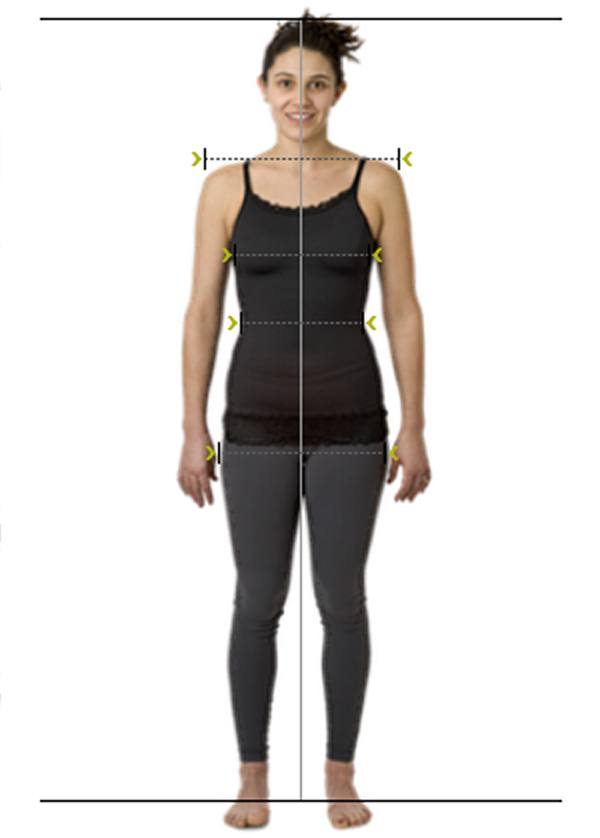
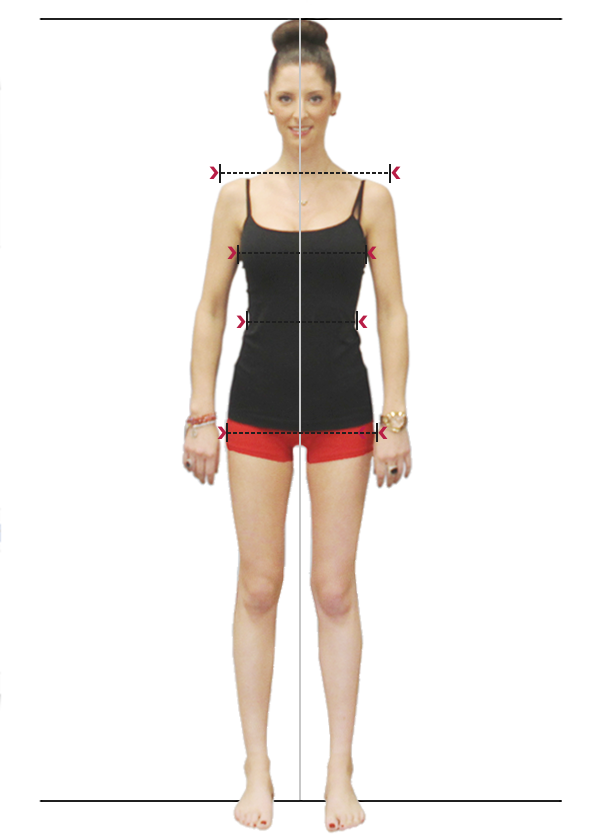
Did changes in measurement/step 4 as pdf file

Changed region(s): [[0.27, 0.0, 0.72, 0.9928]]

diff --git a/web/bundles/lovethatfit/site/css/main.css b/web/bundles/lovethatfit/site/css/main.css
@@ -3153,12 +3153,12 @@ padding-bottom: 0px;
     text-align: center;
     font-weight: normal;
     text-transform: uppercase;
-    border-bottom: 3px solid #c4c833;
+    border-bottom: 3px solid #ccc;
     margin-bottom: 10px;    
 }
 
 .home_box .slid{    
-    border-bottom: 3px solid #c4c833; 
+    border-bottom: 3px solid #406db5; 
     overflow: hidden;
     }
 
@@ -3272,7 +3272,8 @@ div.play_area_hldr div.action_buts_bar {
      border:1px solid #ddd; 
      box-shadow:0px 3px 15px #000;
      z-index: 9000;
- }
+ } 
+ 
  
   #pic_step_2{     
      display:none; 
@@ -3283,7 +3284,19 @@ div.play_area_hldr div.action_buts_bar {
      padding: 36px 10px 10px;
      border:1px solid #ddd; 
      box-shadow:0px 3px 15px #000;
-     z-index: 6000;
+     z-index: 9000;
+ }
+ 
+ #pic_step_3{     
+     display:none; 
+     position: absolute; 
+     left: 270px; 
+     top: 60px; 
+     background: #fff; 
+     padding: 36px 10px 10px; 
+     border:1px solid #ddd; 
+     box-shadow:0px 3px 15px #000;
+     z-index: 9000;
  }
  
  .popup_cross{     
@@ -3296,7 +3309,8 @@ div.play_area_hldr div.action_buts_bar {
  }
  
   .hiw_step_1,
- hiw_step_2 {
+ hiw_step_2,
+hiw_step_3 {
      display:none;
  }
  
@@ -3921,7 +3935,7 @@ width: 160px;
 
 .step_1_exam_4 {
     position: relative;
-    top:-420px;
+    top:-405px;
     left:-150px;
 }
 
@@ -4221,4 +4235,35 @@ ul.fitting_alerts_ul{
  
  .prod_share{
      margin-left: 5px;
+ }
+ 
+ 
+ #profile_measurement_link_reg {
+    font-size: 0.75em!important;
+    color: #333;    
+    display: block;
+    padding: 5px;
+    text-align: center;
+}
+
+#profile_measurement_link_reg a {
+    color:#444444!important;
+    font-weight: bold;
+}
+
+#exp_sml{
+    float:right;
+    margin-right: 110px;
+}
+
+.handle_inner{
+margin-bottom: 4px;
+margin-top: 4px;
+margin-left: 4px;
+}
+
+.set_width_chg {
+     position: relative;
+     color:#666;
+     font-size: 14px;
  }

diff --git a/web/bundles/lovethatfit/site/js/user_registration_step_four.js b/web/bundles/lovethatfit/site/js/user_registration_step_four.js
@@ -178,6 +178,7 @@ function pre_step_1(){
     $("#stella_box").css("display","none");
     $("#pic_step_1").css("display","none");
     $("#pic_step_2").css("display","none");
+    $("#pic_step_3").css("display","none");
     
     $(".hiw_step_2").css("display","none");
     
@@ -266,6 +267,20 @@ $('.reg_next_step2').click(function(){
 $('.next_step2').click(function(){
    rotate_me_to("just_shift");
    $(".action_buts_bar").hide();
+
+    $(".hiw_step_1").fadeOut(200);
+    $(".hiw_step_3").fadeOut(200);
+    $(".hiw_step_2").fadeIn(200);
+   
+});
+
+$('.next_step3').click(function(){
+   rotate_me_to("just_shift");
+   $(".action_buts_bar").hide();
+
+    $(".hiw_step_2").fadeOut(200);
+    $(".hiw_step_3").fadeIn(200);
+   
 });
 
 
@@ -447,6 +462,7 @@ $('#uploaded_photo').html("<img id='img_to_upload' src='"+croped_img_path+"' cla
 
 $(".hiw_upload_photo").css("display","none");
 $(".hiw_step_2").css("display","none");
+$(".hiw_step_3").css("display","none");
 $(".hiw_step_1").fadeIn(200);
 
 $("#play_area").removeClass("hide");
